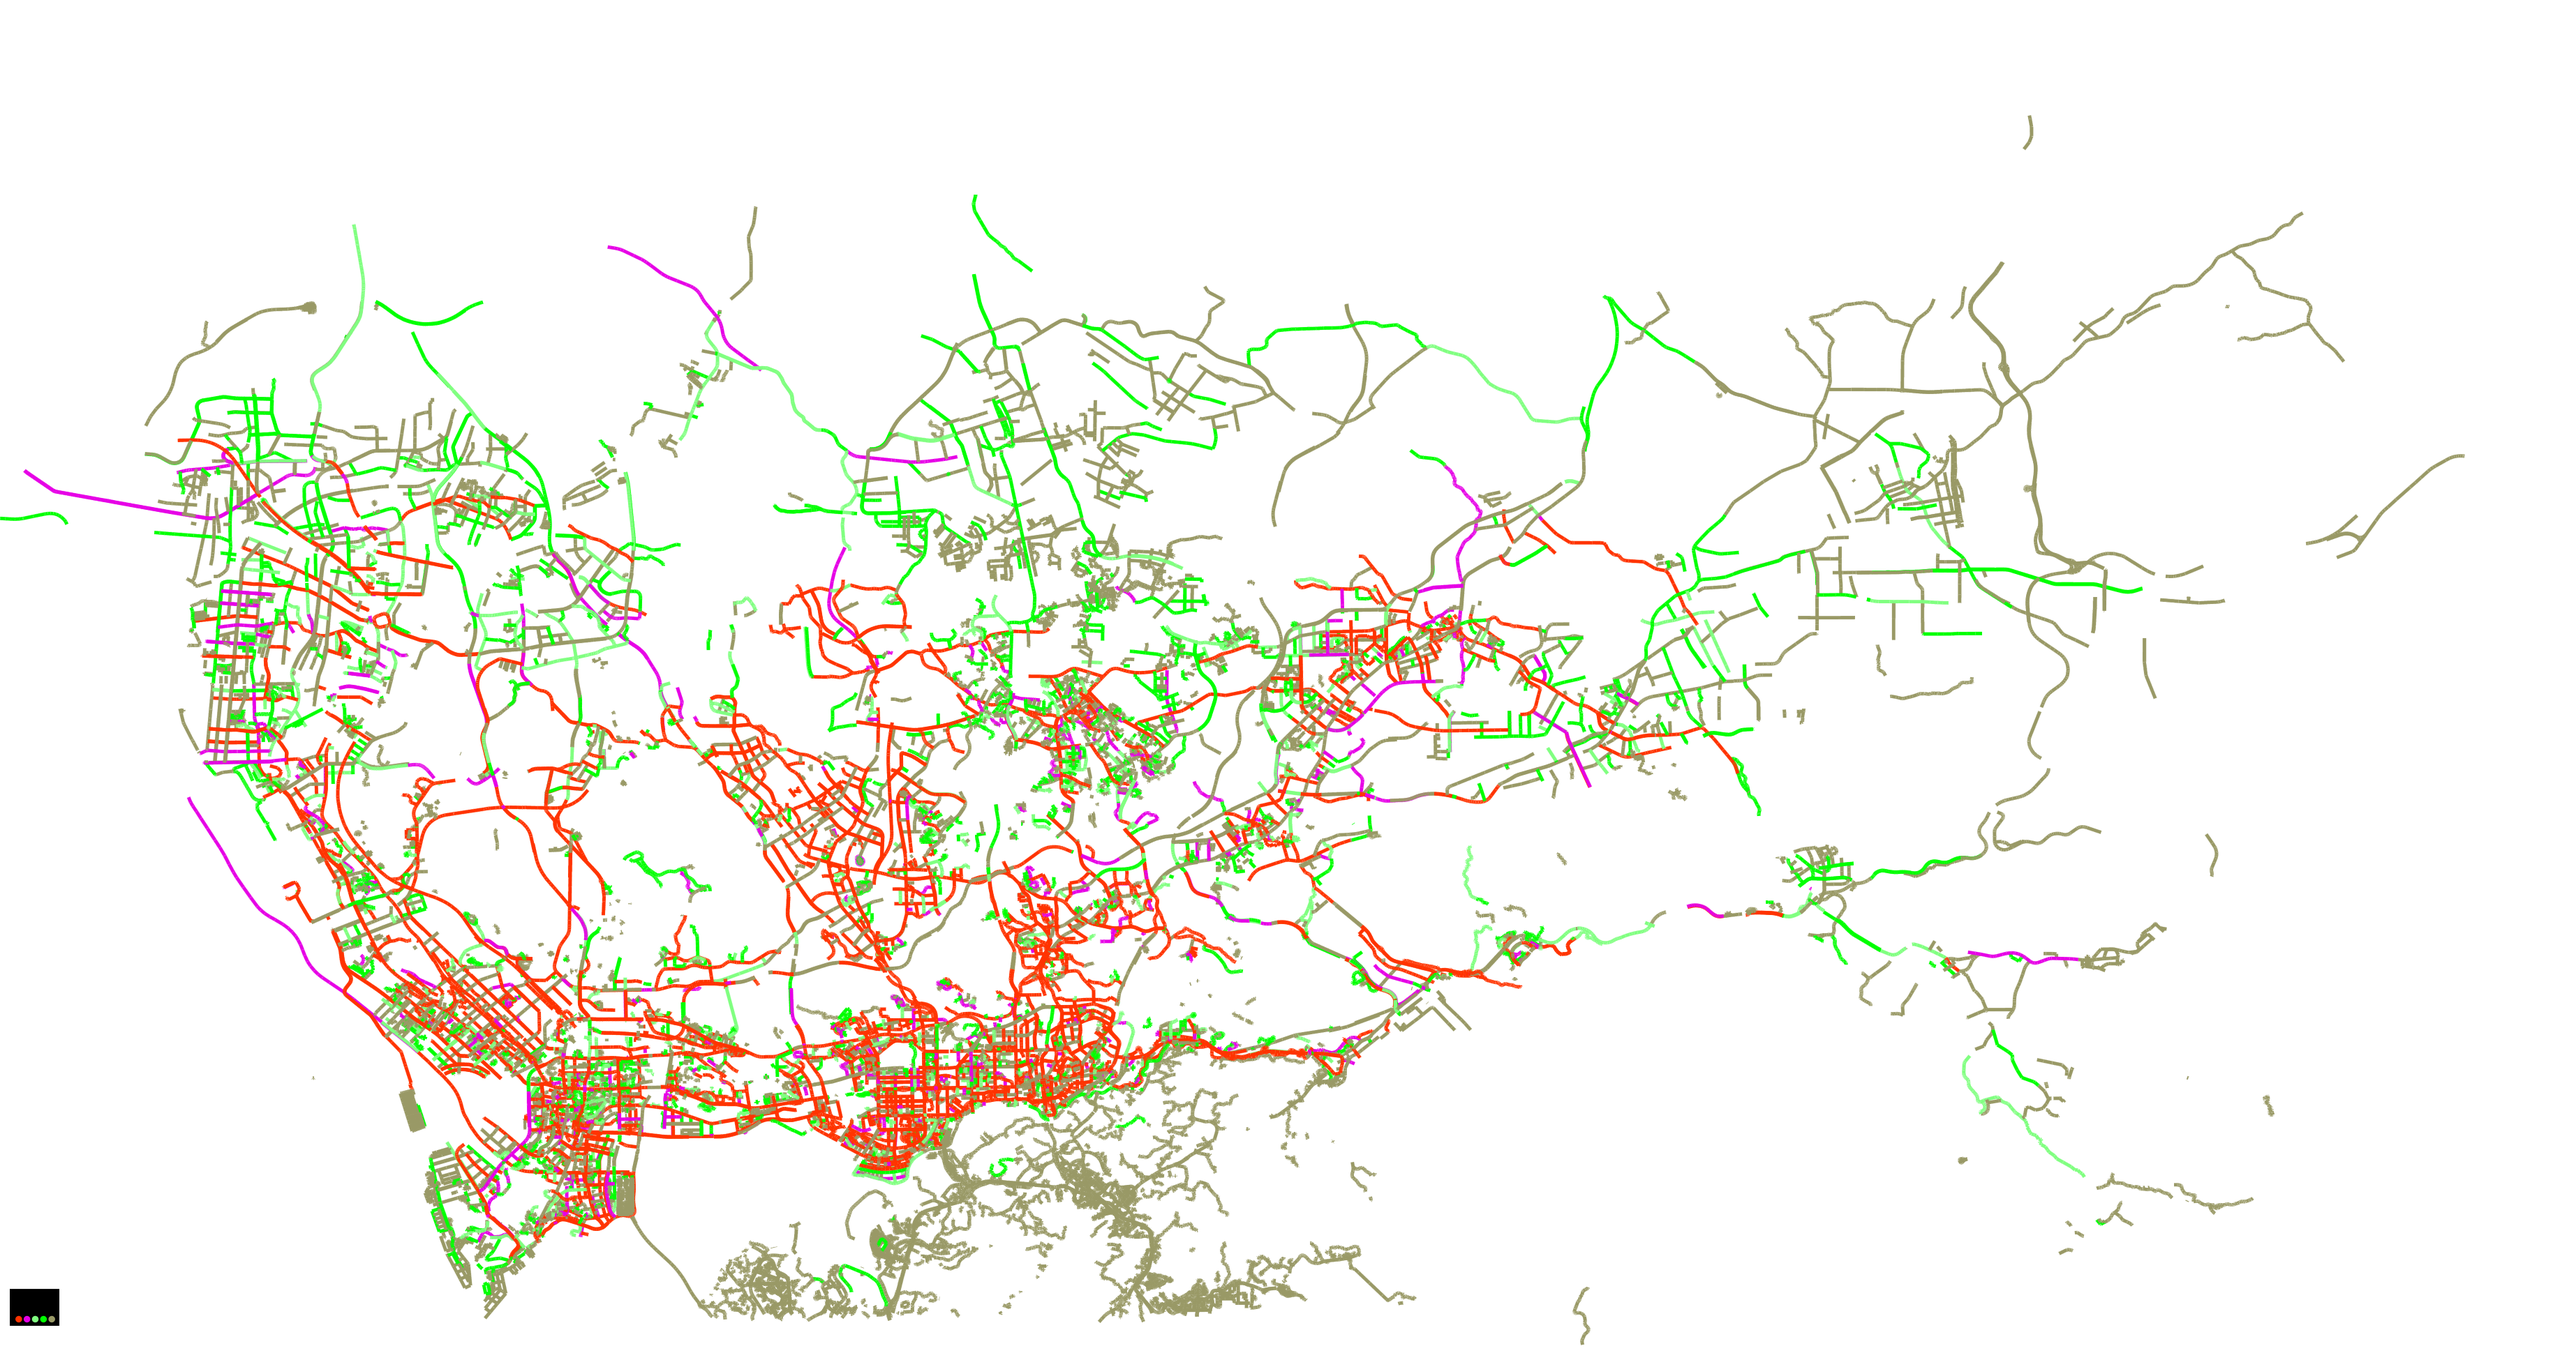
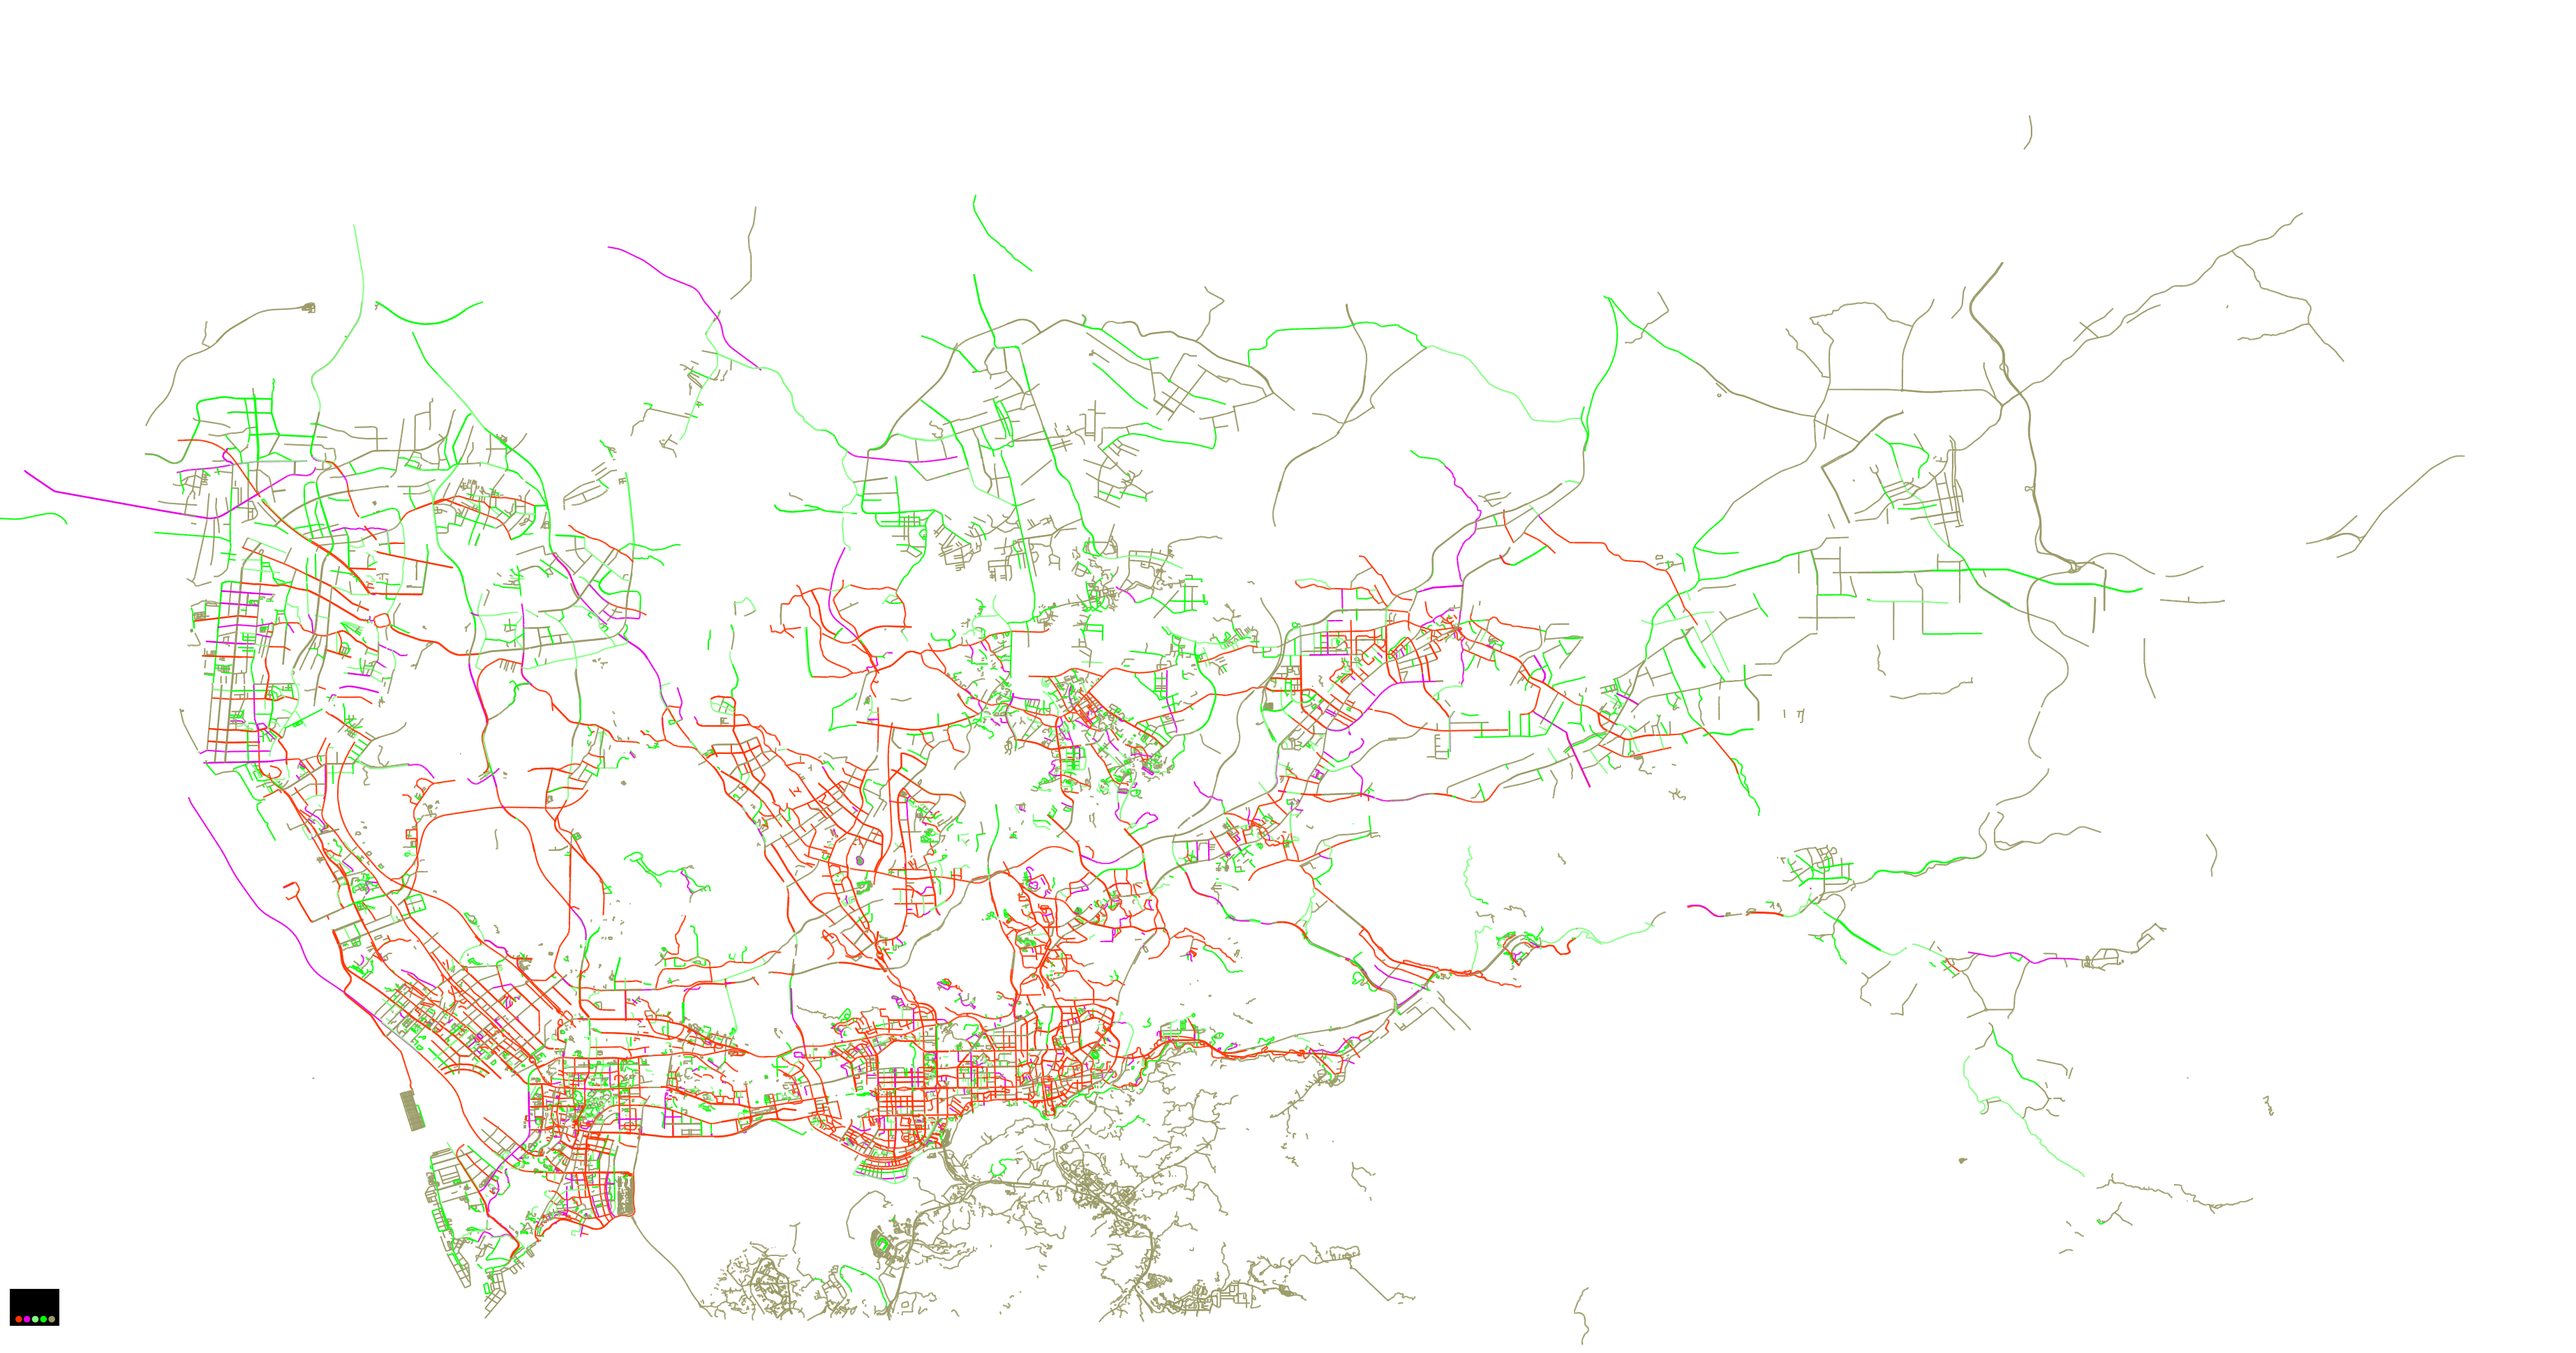
smaller line

diff --git a/dashmap/index.html b/dashmap/index.html
@@ -98,7 +98,7 @@
                                     return '#999966';
                                 }
                             })
-                            .attr('stroke-width', 5)
+                            .attr('stroke-width', 2)
                             .attr('fill', 'none');
 
                 })
